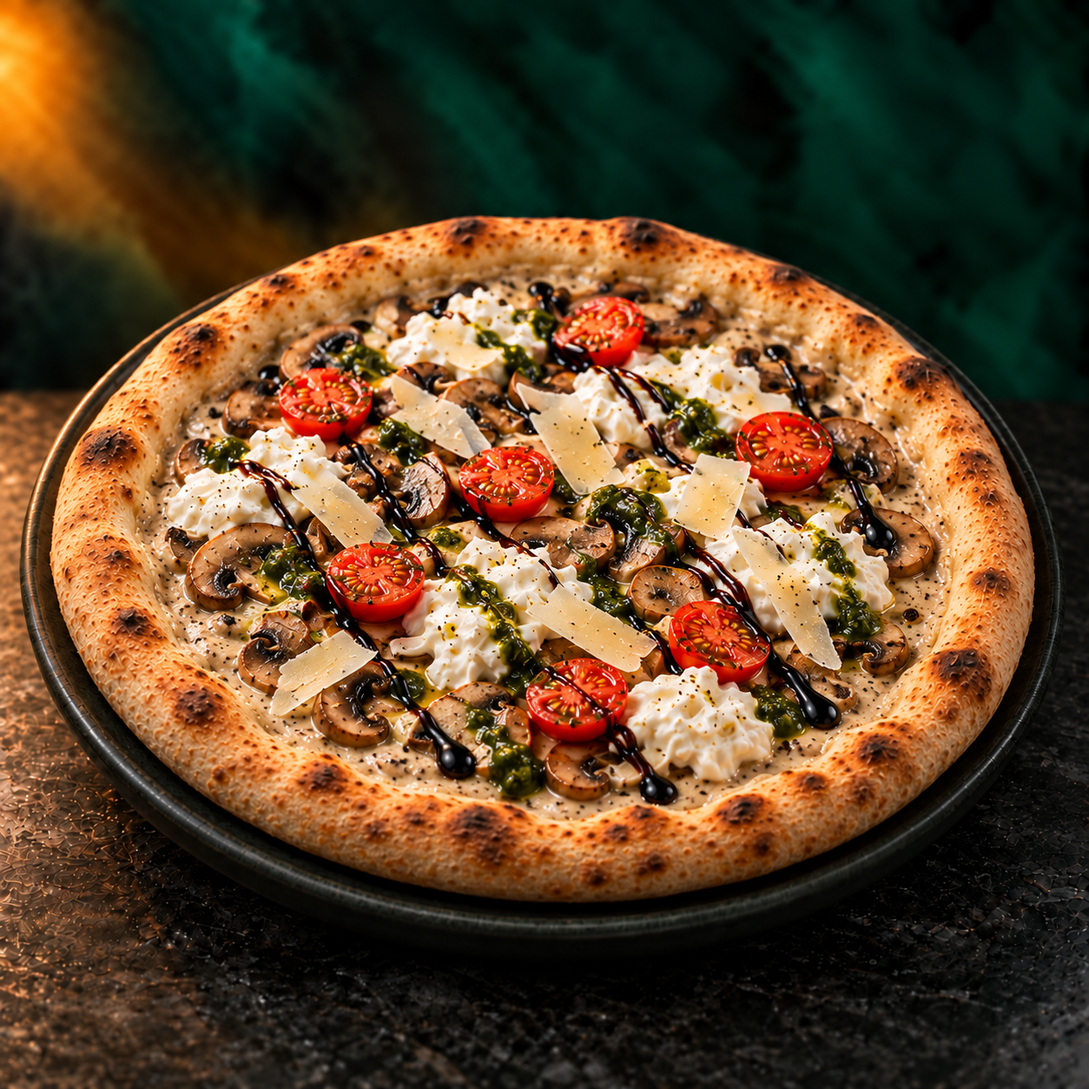
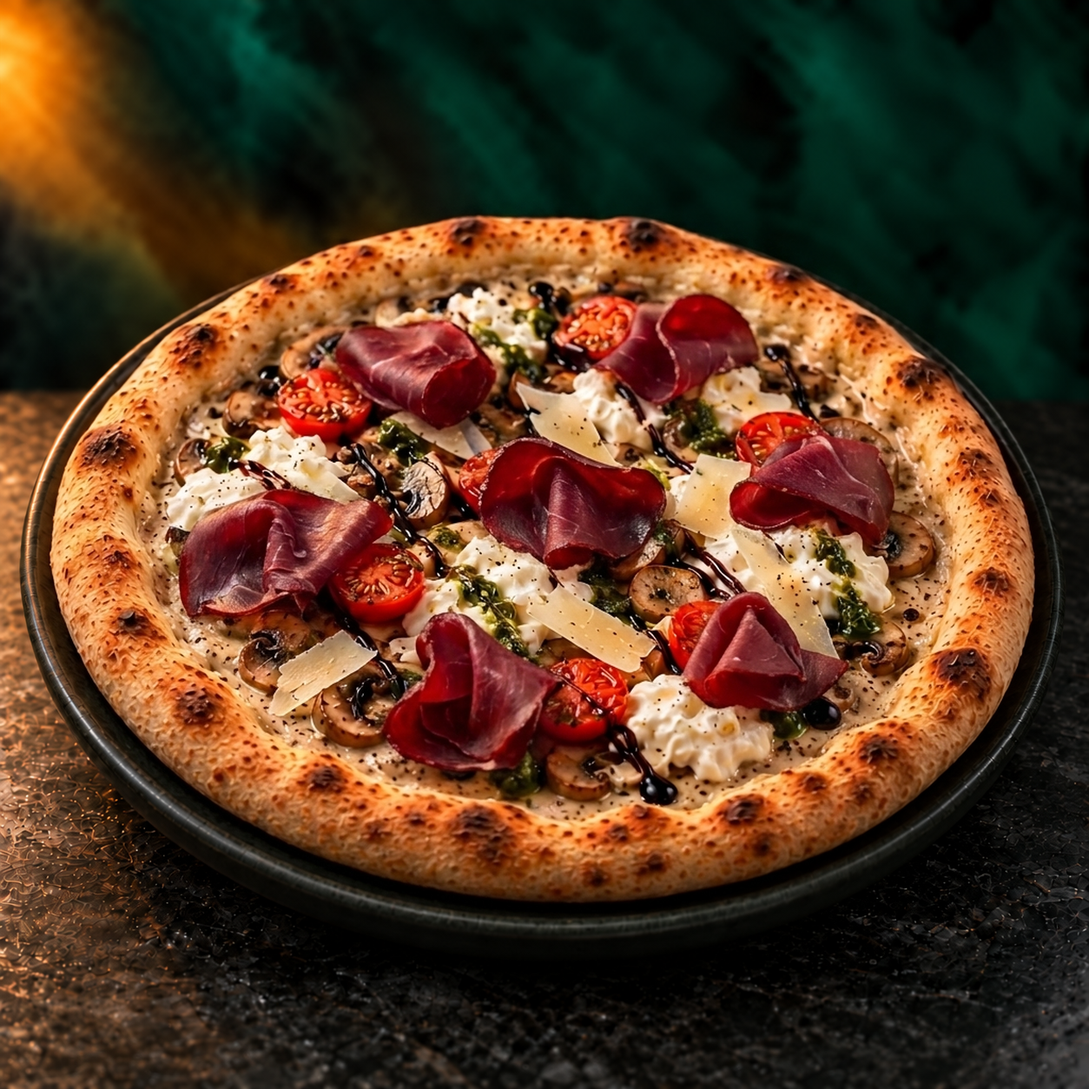
Carte : nouvelles descriptions (burgers, panuozzos, pizzas fior di latte, pâtes, desserts, boissons), Spaghetti Merguez à 14 €, Tartuffe Mafia au jambon de bœuf ; « chicha » pour le référencement

Changed region(s): [[0.0311, 0.2488, 0.933, 0.8086], [0.2799, 0.2177, 0.3421, 0.2488]]

diff --git a/tests/site.spec.ts b/tests/site.spec.ts
@@ -21,47 +21,47 @@ test('la nouvelle carte affiche les treize catégories dans le bon ordre', async
 
 // Each dish shows its ingredients as a customer reads them, never the recipe steps.
 const dishes: { id: string; tab?: string; name: string; has: string[]; hasNot?: string[] }[] = [
-  { id: 'burger-bbq-raclette', name: 'BBQ’ Raclette', has: ['poulet frit croustillant', 'raclette fondue', 'sauce BBQ'] },
-  { id: 'burger-chicken-biggie', name: 'Chicken Biggie', has: ['poulet frit croustillant', 'double cheddar fondu', 'sauce classic burger'] },
-  { id: 'burger-chicken-creamy', name: 'Chicken Creamy', has: ['poulet frit croustillant', 'double cheddar fondu', 'mayonnaise'] },
-  { id: 'burger-smokey-bacon', name: 'Smokey Bacon', has: ['poulet frit croustillant', 'bacon de bœuf snacké', 'sauce Smokey Baconnaise'] },
-  { id: 'burger-classic-smash', name: 'Classic Smash', has: ['deux steaks smash', 'double cheddar fondu', 'ketchup', 'moutarde'] },
+  { id: 'burger-bbq-raclette', name: 'BBQ’ Raclette', has: ['potato bun moelleux', 'poulet frit gourmand'] },
+  { id: 'burger-chicken-biggie', name: 'Chicken Biggie', has: ['sauce classic burger'] },
+  { id: 'burger-chicken-creamy', name: 'Chicken Creamy', has: ['mayonnaise'] },
+  { id: 'burger-smokey-bacon', name: 'Smokey Bacon', has: ['bacon de bœuf snacké', 'sauce Smokey Baconnaise'] },
+  { id: 'burger-classic-smash', name: 'Classic Smash', has: ['deux steaks smash', 'ketchup', 'moutarde'] },
   { id: 'burger-smokey-beef-bacon', name: 'Smokey Beef Bacon', has: ['deux steaks smash', 'bacon de bœuf snacké', 'sauce Smoked Beef'] },
-  { id: 'burger-original-smash', name: 'Original Smash', has: ['deux steaks smash', 'double cheddar fondu', 'sauce Original Smash'], hasNot: ['bacon'] },
-  { id: 'burger-biggie-smash', name: 'Biggie Smash', has: ['deux steaks smash', 'double cheddar fondu', 'sauce classic burger'] },
+  { id: 'burger-original-smash', name: 'Original Smash', has: ['deux steaks smash', 'sauce Original Smash'] },
+  { id: 'burger-biggie-smash', name: 'Biggie Smash', has: ['deux steaks smash', 'sauce classic burger'] },
   { id: 'panuozzo-rosso', tab: 'panuozzo', name: 'Rosso', has: ['pain en pâte à pizza', 'crème de poivrons', 'roquette', 'jambon de dinde', 'chorizo finement tranché', 'stracciatella', 'poivrons', 'oignons confits', 'huile piquante'] },
   { id: 'panuozzo-tartufo', tab: 'panuozzo', name: 'Tartufo', has: ['pain en pâte à pizza', 'crème de truffe', 'roquette', 'jambon de dinde', 'jambon de bœuf', 'stracciatella', 'champignons poêlés', 'copeaux de parmesan', 'poivre moulu'] },
-  { id: 'panuozzo-verde', tab: 'panuozzo', name: 'Verde', has: ['pain en pâte à pizza', 'pesto basilic', 'roquette', 'jambon de dinde', 'stracciatella', 'tomates cerises confites', 'copeaux de parmesan', 'crème balsamique'] },
-  { id: 'pates-spaghetti-sicilienne', tab: 'pates', name: 'Spaghetti Sicilienne', has: ['sauce tomate', 'thon', 'olives', 'parmesan'], hasNot: ['tomate cerise'] },
-  { id: 'pates-rigatoni-tartufo', tab: 'pates', name: 'Rigatoni Tartufo', has: ['truffe', 'champignons', 'copeaux de parmesan'], hasNot: ['tomate cerise'] },
-  { id: 'pates-spaghetti-merguez', tab: 'pates', name: 'Spaghetti Merguez', has: ['merguez', 'sauce tomate crémeuse', 'olives', 'parmesan'], hasNot: ['tomate cerise'] },
+  { id: 'panuozzo-verde', tab: 'panuozzo', name: 'Verde', has: ['pain en pâte à pizza', 'roquette', 'jambon de dinde', 'stracciatella', 'tomates cerises confites', 'copeaux de parmesan'] },
+  { id: 'pates-spaghetti-sicilienne', tab: 'pates', name: 'Spaghetti Sicilienne', has: ['sauce tomate', 'thon', 'olives'], hasNot: ['tomate cerise'] },
+  { id: 'pates-rigatoni-tartufo', tab: 'pates', name: 'Rigatoni Tartufo', has: ['truffe', 'champignons'], hasNot: ['tomate cerise'] },
+  { id: 'pates-spaghetti-merguez', tab: 'pates', name: 'Spaghetti Merguez', has: ['merguez', 'olives'], hasNot: ['tomate cerise'] },
   { id: 'pates-spaghetti-formaggi', tab: 'pates', name: 'Spaghetti Formaggi', has: ['gorgonzola', 'copeaux de parmesan'], hasNot: ['tomate cerise'] },
-  { id: 'pates-penne-arrabiata', tab: 'pates', name: 'Penne Arrabbiata', has: ['sauce tomate relevée à l’huile piquante'], hasNot: ['parmesan'] },
-  { id: 'pates-penne-forestiere', tab: 'pates', name: 'Penne Forestière', has: ['poulet', 'champignons', 'sauce crémeuse au parmesan'], hasNot: ['tomate cerise'] },
-  { id: 'pates-penne-saumon', tab: 'pates', name: 'Penne Saumon', has: ['saumon', 'sauce tomate crémeuse au parmesan'], hasNot: ['tomate cerise'] },
-  { id: 'pates-rigatoni-carbonara', tab: 'pates', name: 'Rigatoni Carbonara', has: ['crème', 'jaune d’œuf', 'lardons', 'parmesan', 'poivre noir'], hasNot: ['tomate cerise'] },
-  { id: 'pizzas-bollywood-style', tab: 'pizzas', name: 'Bollywood Style', has: ['sauce curry', 'mozzarella', 'poulet', 'oignons confits', 'tomates cerises', 'sauce basilic', 'crème balsamique'] },
-  { id: 'pizzas-burratella-lov', tab: 'pizzas', name: 'Burratella Lov’', has: ['sauce tomate', 'stracciatella', 'jambon de dinde', 'copeaux de parmesan', 'sauce basilic', 'crème balsamique'] },
+  { id: 'pates-penne-arrabiata', tab: 'pates', name: 'Penne Arrabbiata', has: ['penne à la sauce tomate relevée au piment', 'à l’huile d’olive'], hasNot: ['parmesan'] },
+  { id: 'pates-penne-forestiere', tab: 'pates', name: 'Penne Forestière', has: ['poulet', 'champignons'], hasNot: ['tomate cerise'] },
+  { id: 'pates-penne-saumon', tab: 'pates', name: 'Penne Saumon', has: ['saumon'], hasNot: ['tomate cerise'] },
+  { id: 'pates-rigatoni-carbonara', tab: 'pates', name: 'Rigatoni Carbonara', has: ['jaune d’œuf', 'lardons', 'parmesan', 'poivre noir'], hasNot: ['tomate cerise'] },
+  { id: 'pizzas-bollywood-style', tab: 'pizzas', name: 'Bollywood Style', has: ['mozzarella', 'poulet', 'oignons confits', 'tomates cerises'] },
+  { id: 'pizzas-burratella-lov', tab: 'pizzas', name: 'Burratella Lov’', has: ['sauce tomate', 'stracciatella', 'jambon de dinde', 'copeaux de parmesan'] },
   { id: 'pizzas-classica-queen', tab: 'pizzas', name: 'Classica Queen', has: ['sauce tomate', 'mozzarella', 'champignons', 'jambon'] },
-  { id: 'pizzas-malaga', tab: 'pizzas', name: 'Malaga', has: ['merguez', 'œuf', 'jambon de dinde', 'sauce basilic'] },
-  { id: 'pizzas-marmithon', tab: 'pizzas', name: 'Marmithon', has: ['thon', 'olives', 'oignons confits', 'sauce basilic'] },
+  { id: 'pizzas-malaga', tab: 'pizzas', name: 'Malaga', has: ['merguez', 'œuf', 'jambon de dinde'] },
+  { id: 'pizzas-marmithon', tab: 'pizzas', name: 'Marmithon', has: ['thon', 'olives', 'oignons confits'] },
   { id: 'pizzas-paysanne', tab: 'pizzas', name: 'Paysanne', has: ['base crème', 'lardons', 'pommes de terre', 'sauce persillade'], hasNot: ['sauce tomate'] },
   { id: 'pizzas-pizz-arabia', tab: 'pizzas', name: 'Pizz’Arabia', has: ['merguez', 'poivrons rouges et verts', 'œuf', 'oignons confits'], hasNot: ['sauce basilic'] },
   { id: 'pizzas-ranch', tab: 'pizzas', name: 'Ranch’', has: ['sauce barbecue', 'poivrons rouges et verts', 'poulet', 'chorizo', 'crème', 'oignons confits', 'cheddar'], hasNot: ['sauce tomate'] },
   { id: 'pizzas-rosalia', tab: 'pizzas', name: 'Rosalia', has: ['sauce tomate', 'mozzarella', 'champignons', 'poulet', 'merguez artisanale', 'crème'], hasNot: ['oignons confits', 'sauce basilic'] },
   { id: 'pizzas-sugar-pepperoni', tab: 'pizzas', name: 'Sugar Pepperoni', has: ['sauce tomate à la barbecue', 'mozzarella', 'pepperoni'], hasNot: ['oignons', 'sauce basilic'] },
-  { id: 'pizzas-tartuffe-mafia', tab: 'pizzas', name: 'Tartuffe Mafia', has: ['crème truffée', 'champignons', 'stracciatella', 'tomates cerises', 'copeaux de parmesan', 'sauce basilic', 'crème balsamique'], hasNot: ['mozzarella', 'sauce tomate'] },
+  { id: 'pizzas-tartuffe-mafia', tab: 'pizzas', name: 'Tartuffe Mafia', has: ['crème truffée', 'champignons', 'stracciatella', 'tomates cerises', 'copeaux de parmesan'], hasNot: ['mozzarella', 'sauce tomate'] },
   { id: 'pizzas-tutti-formaggi', tab: 'pizzas', name: 'Tutti Formaggi', has: ['sauce tomate', 'mozzarella', 'chèvre', 'gorgonzola', 'copeaux de parmesan'], hasNot: ['viande', 'champignons'] },
   { id: 'pizzas-vieille-fermiere', tab: 'pizzas', name: 'Vieille Fermière', has: ['base crème', 'mozzarella', 'poulet', 'champignons', 'oignons confits'], hasNot: ['sauce tomate'] },
   { id: 'pizzas-western', tab: 'pizzas', name: 'Western', has: ['sauce moutarde', 'mozzarella', 'poulet rôti', 'crème', 'oignons confits', 'sauce persillade'], hasNot: ['sauce tomate'] },
-  { id: 'frappuccino-caramello', tab: 'frappuccino', name: 'Caramello', has: ['Espresso Caramello', 'lait entier', 'sirop vanille', 'glace vanille', 'glaçons', 'chantilly', 'coulis caramel'] },
-  { id: 'frappuccino-coffee-latte', tab: 'frappuccino', name: 'Coffee Latte', has: ['Espresso Forte', 'lait entier', 'sirop de sucre', 'glace vanille', 'glaçons', 'chantilly'], hasNot: ['caramel'] },
-  { id: 'frappuccino-nocciola', tab: 'frappuccino', name: 'Nocciola', has: ['Café Nocciola', 'lait entier', 'coulis chocolat', 'glace vanille', 'glaçons', 'chantilly', 'filet de chocolat'], hasNot: ['caramel'] },
+  { id: 'frappuccino-caramello', tab: 'frappuccino', name: 'Caramello', has: ['glace vanille', 'glaçons', 'chantilly'] },
+  { id: 'frappuccino-coffee-latte', tab: 'frappuccino', name: 'Coffee Latte', has: ['glace vanille', 'glaçons', 'chantilly'], hasNot: ['caramel'] },
+  { id: 'frappuccino-nocciola', tab: 'frappuccino', name: 'Nocciola', has: ['glace vanille', 'glaçons', 'chantilly', 'filet de chocolat'], hasNot: ['caramel'] },
   { id: 'mocktail-amor-amor', tab: 'mocktail', name: 'Amor Amor', has: ['jus de passion', 'jus d’ananas', 'jus de mangue', 'sirop de vanille', 'grenadine', 'glace pilée'] },
   { id: 'mocktail-coco-loco', tab: 'mocktail', name: 'Coco Loco', has: ['jus de piña colada', 'lait de coco', 'jus d’ananas', 'sirop de vanille', 'glace pilée'] },
-  { id: 'mocktail-virgin-mojito', tab: 'mocktail', name: 'Virgin Mojito', has: ['menthe fraîche', 'citron vert', 'sirop de sucre de canne', 'Sprite', 'glace pilée'], hasNot: ['fraise', 'framboise'] },
-  { id: 'mocktail-mojito-framboise', tab: 'mocktail', name: 'Mojito Framboise', has: ['menthe fraîche', 'citron vert', 'sirop de framboise', 'Sprite', 'glace pilée'] },
-  { id: 'mocktail-mojito-fraise', tab: 'mocktail', name: 'Mojito Fraise', has: ['menthe fraîche', 'citron vert', 'sirop de fraise', 'Sprite', 'glace pilée'], hasNot: ['framboise'] },
+  { id: 'mocktail-virgin-mojito', tab: 'mocktail', name: 'Virgin Mojito', has: ['menthe fraîche', 'citron vert', 'sirop de sucre de canne', 'glace pilée'], hasNot: ['fraise', 'framboise'] },
+  { id: 'mocktail-mojito-framboise', tab: 'mocktail', name: 'Mojito Framboise', has: ['menthe fraîche', 'citron vert', 'sirop de framboise', 'glace pilée'] },
+  { id: 'mocktail-mojito-fraise', tab: 'mocktail', name: 'Mojito Fraise', has: ['menthe fraîche', 'citron vert', 'sirop de fraise', 'glace pilée'], hasNot: ['framboise'] },
   { id: 'mocktail-passion-fruit-lemonade', tab: 'mocktail', name: 'Passion Fruit Lemonade', has: ['jus de passion', 'jus de citron jaune', 'sirop de sucre de canne', 'eau pétillante', 'glace pilée'] },
   { id: 'boisson-coca-cola', tab: 'boissons-fraiches', name: 'Coca-Cola', has: ['bouteille en verre', '33 cl'] },
   { id: 'boisson-coca-cola-zero', tab: 'boissons-fraiches', name: 'Coca-Cola Zéro', has: ['Zéro Sucres', 'bouteille en verre', '33 cl'] },
@@ -72,23 +72,23 @@ const dishes: { id: string; tab?: string; name: string; has: string[]; hasNot?: 
   { id: 'boisson-orangina', tab: 'boissons-fraiches', name: 'Orangina', has: ['pulpe', 'bouteille en verre', '25 cl'] },
   { id: 'boisson-san-pellegrino', tab: 'boissons-fraiches', name: 'San Pellegrino', has: ['gazeuse', 'bouteille en verre', '50 cl'] },
   { id: 'boisson-vittel', tab: 'boissons-fraiches', name: 'Vittel', has: ['eau minérale', 'bouteille en verre', '50 cl'] },
-  { id: 'milkshake-bueno', tab: 'milkshake', name: 'Bueno', has: ['glace vanille', 'lait', 'Kinder Bueno mixé', 'chantilly', 'demi-barre de Bueno'], hasNot: ['coulis'] },
-  { id: 'milkshake-cookies', tab: 'milkshake', name: 'Cookies', has: ['glace vanille', 'lait', 'cookies aux pépites de chocolat mixés', 'chantilly', 'demi-cookie'], hasNot: ['coulis'] },
-  { id: 'milkshake-oreo', tab: 'milkshake', name: 'Oreo', has: ['glace vanille', 'lait', 'biscuits Oreo mixés', 'chantilly', 'un biscuit Oreo'], hasNot: ['coulis'] },
-  { id: 'milkshake-petit-beurre', tab: 'milkshake', name: 'Petit Beurre', has: ['glace vanille', 'lait', 'biscuits Petit Beurre mixés', 'chantilly', 'demi-biscuit Petit Beurre'], hasNot: ['coulis'] },
-  { id: 'milkshake-speculoos', tab: 'milkshake', name: 'Spéculoos', has: ['glace vanille', 'lait', 'biscuits Spéculoos mixés', 'chantilly', 'demi-biscuit Spéculoos'], hasNot: ['coulis'] },
-  { id: 'milkshake-vanille', tab: 'milkshake', name: 'Vanille', has: ['glace vanille', 'lait', 'chantilly'], hasNot: ['coulis', 'biscuit'] },
-  { id: 'iced-latte-caramello', tab: 'iced-latte', name: 'Iced Caramello', has: ['sirop de vanille', 'café Caramello', 'lait entier', 'glaçons', 'chantilly', 'coulis caramel'] },
-  { id: 'iced-latte-coffee-latte', tab: 'iced-latte', name: 'Iced Coffee Latte', has: ['sirop de sucre', 'Espresso Forte', 'lait entier', 'glaçons', 'chantilly'], hasNot: ['caramel', 'cacao'] },
-  { id: 'iced-latte-nocciola', tab: 'iced-latte', name: 'Iced Nocciola', has: ['coulis chocolat', 'café Nocciola', 'lait entier', 'glaçons', 'chantilly'], hasNot: ['caramel', 'vanille'] },
+  { id: 'milkshake-bueno', tab: 'milkshake', name: 'Bueno', has: ['chantilly'], hasNot: ['coulis'] },
+  { id: 'milkshake-cookies', tab: 'milkshake', name: 'Cookies', has: ['chantilly'], hasNot: ['coulis'] },
+  { id: 'milkshake-oreo', tab: 'milkshake', name: 'Oreo', has: ['chantilly'], hasNot: ['coulis'] },
+  { id: 'milkshake-petit-beurre', tab: 'milkshake', name: 'Petit Beurre', has: ['chantilly'], hasNot: ['coulis'] },
+  { id: 'milkshake-speculoos', tab: 'milkshake', name: 'Spéculoos', has: ['chantilly'], hasNot: ['coulis'] },
+  { id: 'milkshake-vanille', tab: 'milkshake', name: 'Vanille', has: ['glace vanille', 'chantilly'], hasNot: ['coulis', 'biscuit'] },
+  { id: 'iced-latte-caramello', tab: 'iced-latte', name: 'Iced Caramello', has: ['glaçons', 'chantilly'] },
+  { id: 'iced-latte-coffee-latte', tab: 'iced-latte', name: 'Iced Coffee Latte', has: ['glaçons', 'chantilly'], hasNot: ['caramel', 'cacao'] },
+  { id: 'iced-latte-nocciola', tab: 'iced-latte', name: 'Iced Nocciola', has: ['glaçons', 'chantilly'], hasNot: ['caramel', 'vanille'] },
   { id: 'salade-original-burrata', tab: 'salade', name: 'Original Burrata', has: ['burrata', 'huile d’olive', 'tomates cerises', 'olives de Ligurie', 'sauce basilic', 'crème balsamique'], hasNot: ['poulet'] },
   { id: 'salade-cesar', tab: 'salade', name: 'César', has: ['salade', 'poulet', 'croûtons', 'sauce César'], hasNot: ['burrata', 'tomate'] },
-  { id: 'dessert-fondant-chocolat', tab: 'dessert', name: 'Fondant au chocolat', has: ['mi-cuit au chocolat', 'glace vanille +2 €'] },
+  { id: 'dessert-fondant-chocolat', tab: 'dessert', name: 'Fondant au chocolat', has: ['glace vanille +2 €'] },
   { id: 'dessert-tiramisu-coffee', tab: 'dessert', name: 'Original Tiramisu Coffee', has: ['mascarpone', 'café', 'cacao'] },
   { id: 'dessert-tiramisu-nutella-speculoos', tab: 'dessert', name: 'Tiramisu Nutella-Spéculoos', has: ['mascarpone', 'Nutella', 'spéculoos'] },
   { id: 'dessert-tiramisu-pistachio', tab: 'dessert', name: 'Tiramisu Pistachio', has: ['mascarpone', 'pistache'] },
   { id: 'dessert-bowl-fruits', tab: 'dessert', name: 'Bowl de fruits', has: ['fruits frais de saison'] },
-  { id: 'dessert-brioche-perdue', tab: 'dessert', name: 'Brioche perdue', has: ['pain perdu', 'topping au choix', 'caramel beurre salé'] },
+  { id: 'dessert-brioche-perdue', tab: 'dessert', name: 'Brioche perdue', has: ['pain perdu', 'topping au choix'] },
   { id: 'crepe-beurre-sucre', tab: 'crepes', name: 'Crêpe beurre sucre', has: ['beurre et sucre'] },
   { id: 'crepe-nutella', tab: 'crepes', name: 'Crêpe Nutella', has: ['Nutella'] },
   { id: 'crepe-speculoos', tab: 'crepes', name: 'Crêpe crème spéculoos', has: ['crème spéculoos'] },
@@ -139,7 +139,7 @@ test('chaque catégorie liste ses plats du moins cher au plus cher', async ({ pa
 
 test('les burgers sont servis avec des frites, les panuozzos avec une salade et les salades avec des petits pains', async ({ page }) => {
   await page.goto('/#carte');
-  await expect(page.locator('.dish-card[data-open="burger-classic-smash"] .dish-served')).toHaveText('Servi avec des frites');
+  await expect(page.locator('.dish-card[data-open="burger-classic-smash"] .dish-served')).toHaveText('Servi avec frites');
   await expect(page.locator('.dish-card[data-open^="burger-"] .dish-served')).toHaveCount(8);
   await page.locator('#tab-panuozzo').click();
   await expect(page.locator('.dish-card[data-open^="panuozzo-"] .dish-served')).toHaveCount(3);
@@ -147,7 +147,7 @@ test('les burgers sont servis avec des frites, les panuozzos avec une salade et 
   await expect(page.locator('.dish-card[data-open^="salade-"] .dish-served')).toHaveText(['Servi avec nos petits pains maison', 'Servi avec nos petits pains maison']);
   await page.locator('#tab-panuozzo').click();
   await page.locator('.dish-card[data-open="panuozzo-verde"]').click();
-  await expect(page.getByRole('dialog').locator('.dialog-served')).toHaveText('Servi avec une salade');
+  await expect(page.getByRole('dialog').locator('.dialog-served')).toHaveText('Servi avec salade');
 });
 
 test('les prix de Bilal et les suppléments des smash burgers s’affichent', async ({ page }) => {
@@ -207,7 +207,7 @@ test('les desserts regroupent les six douceurs de la carte, sans les crêpes, av
   const prices: [string, string][] = [['dessert-fondant-chocolat', '7€'], ['dessert-tiramisu-coffee', '8€'], ['dessert-tiramisu-nutella-speculoos', '9€'], ['dessert-tiramisu-pistachio', '9€'], ['dessert-bowl-fruits', '10€'], ['dessert-brioche-perdue', '11€']];
   for (const [id, price] of prices) await expect(page.locator(`.dish-card[data-open="${id}"] .dish-title > span`)).toHaveText(price);
   await expect(page.locator('.dish-card[data-open="dessert-fondant-chocolat"]')).toContainText('Boule de glace vanille +2 €');
-  await expect(page.locator('.dish-card[data-open="dessert-brioche-perdue"]')).toContainText('Nutella, spéculoos, crème Bueno ou caramel beurre salé');
+  await expect(page.locator('.dish-card[data-open="dessert-brioche-perdue"]')).toContainText('Nutella, spéculoos, crème Bueno ou caramel au beurre salé');
   await expect(page.locator('.dish-card[data-open="dessert-brioche-perdue"]')).toContainText('Topping supplémentaire +2 €');
   await expect(page.locator('#dish-grid')).not.toContainText('BIENTÔT');
 });
@@ -261,13 +261,13 @@ test('la page expose un référencement local complet', async ({ page }) => {
   expect(missingAlt).toBe(0);
 });
 
-test('le lounge présente ses hookahs et la chauffe Quasar', async ({ page }) => {
+test('le lounge présente ses chichas et la chauffe Quasar', async ({ page }) => {
   await page.goto('/');
   await expect(page.locator('#lieu')).toHaveCount(0);
   await expect(page.locator('a[href="#lieu"]')).toHaveCount(0);
   const lounge = page.locator('#lounge');
   await expect(lounge.locator('.lounge-specs')).toContainText('Alpha, Brodator, Mig tradi');
-  expect((await page.locator('body').innerText()).match(/chicha|wookah/i)).toBeNull();
+  expect((await page.locator('body').innerText()).match(/hookah|wookah/i)).toBeNull();
   await expect(lounge.locator('.lounge-specs')).toContainText('Quasar');
   await expect(lounge.locator('.lounge-picture img')).toHaveAttribute('src', /lounge\/wookah-quasar\.webp$/);
   await expect(lounge.locator('.lounge-tile img')).toHaveCount(2);
@@ -276,11 +276,11 @@ test('le lounge présente ses hookahs et la chauffe Quasar', async ({ page }) =>
   await expect(lounge.locator('.lounge-intro')).toContainText('dès 15 h');
   await expect(lounge.locator('.lounge-intro')).not.toContainText('assiette');
   await expect(lounge.locator('.lounge-formula').nth(0)).toContainText('FORMULE 1');
-  await expect(lounge.locator('.lounge-formula').nth(0)).toContainText('Hookah & Drink');
+  await expect(lounge.locator('.lounge-formula').nth(0)).toContainText('Chicha & Drink');
   await expect(lounge.locator('.lounge-formula').nth(1)).toContainText('FORMULE 2');
-  await expect(lounge.locator('.lounge-formula').nth(0)).toContainText('Hookah + boisson fraîche ou boisson chaude');
-  await expect(lounge.locator('.lounge-formula').nth(1)).toContainText('Hookah & Signature Drink');
-  await expect(lounge.locator('.lounge-formula').nth(1)).toContainText('Hookah + mocktail, milkshake, iced latte ou frappuccino');
+  await expect(lounge.locator('.lounge-formula').nth(0)).toContainText('Chicha + boisson fraîche ou boisson chaude');
+  await expect(lounge.locator('.lounge-formula').nth(1)).toContainText('Chicha & Signature Drink');
+  await expect(lounge.locator('.lounge-formula').nth(1)).toContainText('Chicha + mocktail, milkshake, iced latte ou frappuccino');
 });
 
 test('les infos pratiques donnent adresse, horaires, téléphone et état d’ouverture', async ({ page }) => {
@@ -357,9 +357,9 @@ test('fermer la fiche d’un plat ne laisse pas de contour après un clic', asyn
 
 test('les titres de section portent les mots-clés et le contact affiche la bonne adresse e-mail', async ({ page }) => {
   await page.goto('/');
-  await expect(page).toHaveTitle(/hookah à Noisy-le-Sec/);
+  await expect(page).toHaveTitle(/chicha à Noisy-le-Sec/);
   await expect(page.locator('#carte h2')).toContainText('cuisine généreuse, comme à la maison, à Noisy-le-Sec');
-  await expect(page.locator('#lounge h2')).toContainText('Lounge hookah à Noisy-le-Sec');
+  await expect(page.locator('#lounge h2')).toContainText('Lounge chicha à Noisy-le-Sec');
   await expect(page.locator('#contact h2')).toContainText('Adresse, horaires & accès');
   await expect(page.locator('section[hidden]')).toHaveCount(0);
   await expect(page.locator('a[href^="mailto:"]').first()).toHaveAttribute('href', 'mailto:lesafelounge@gmail.com');

diff --git a/index.html b/index.html
@@ -3,8 +3,8 @@
 <head>
   <meta charset="UTF-8" />
   <meta name="viewport" content="width=device-width, initial-scale=1.0" />
-  <title>Le Safe Lounge · Restaurant &amp; lounge hookah à Noisy-le-Sec</title>
-  <meta name="description" content="Restaurant et lounge hookah à Noisy-le-Sec (93) : smash burgers, chicken burgers, pizzas et pâtes. 82 boulevard Michelet, ouvert 7 j/7 dès 15 h, jusqu’à 2 h le week-end." />
+  <title>Le Safe Lounge · Restaurant &amp; lounge chicha à Noisy-le-Sec</title>
+  <meta name="description" content="Restaurant et lounge chicha à Noisy-le-Sec (93) : smash burgers, chicken burgers, pizzas et pâtes. 82 boulevard Michelet, ouvert 7 j/7 dès 15 h, jusqu’à 2 h le week-end." />
   <link rel="canonical" href="%SITE_URL%" />
   <meta name="robots" content="index, follow, max-image-preview:large" />
   <meta name="theme-color" content="#224233" />
@@ -14,7 +14,7 @@
   <meta property="og:locale" content="fr_FR" />
   <meta property="og:site_name" content="Le Safe Lounge" />
   <meta property="og:title" content="Le Safe Lounge · Restaurant &amp; lounge à Noisy-le-Sec" />
-  <meta property="og:description" content="Smash burgers, pizzas, pâtes et lounge hookah au 82 boulevard Michelet, à Noisy-le-Sec. Ouvert tous les jours dès 15 h." />
+  <meta property="og:description" content="Smash burgers, pizzas, pâtes et lounge chicha au 82 boulevard Michelet, à Noisy-le-Sec. Ouvert tous les jours dès 15 h." />
   <meta property="og:url" content="%SITE_URL%" />
   <meta property="og:image" content="%SITE_URL%assets/og-image.jpg" />
   <meta property="og:image:width" content="1200" />
@@ -22,7 +22,7 @@
   <meta property="og:image:alt" content="Le Smokey Beef Bacon, la Burratella Lov’ et les Penne Forestière du Safe Lounge" />
   <meta name="twitter:card" content="summary_large_image" />
   <meta name="twitter:title" content="Le Safe Lounge · Restaurant &amp; lounge à Noisy-le-Sec" />
-  <meta name="twitter:description" content="Smash burgers, pizzas, pâtes et lounge hookah au 82 boulevard Michelet, à Noisy-le-Sec." />
+  <meta name="twitter:description" content="Smash burgers, pizzas, pâtes et lounge chicha au 82 boulevard Michelet, à Noisy-le-Sec." />
   <meta name="twitter:image" content="%SITE_URL%assets/og-image.jpg" />
   <link rel="icon" href="/assets/symbol-lilac.svg" type="image/svg+xml" />
   <link rel="apple-touch-icon" href="/assets/apple-touch-icon.webp" />
@@ -57,7 +57,7 @@
       <div class="menu-heading reveal"><div><h2><span class="eyebrow h2-kicker">La carte · cuisine généreuse, comme à la maison, à <span class="nowrap">Noisy-le-Sec</span></span> Et vous,<br><em>vous prenez quoi ?</em></h2></div><div class="menu-search"><label for="dish-search">Une envie précise ?</label><div><svg viewBox="0 0 24 24" fill="none" stroke="currentColor" stroke-width="1.5" aria-hidden="true"><circle cx="10" cy="10" r="6"/><path d="m15 15 6 6"/></svg><input id="dish-search" type="search" placeholder="Burger, pizza, mocktail…" autocomplete="off" /><button class="clear-search" type="button" aria-label="Effacer la recherche" hidden>×</button></div></div></div>
       <div class="menu-layout"><aside class="menu-sidebar"><div class="sidebar-top"><span>LA CARTE</span></div><div id="categories" role="tablist" aria-label="Catégories du menu" aria-orientation="vertical"></div><div class="sidebar-note"><img src="/assets/symbol-lilac.svg" alt="" width="35" height="35" /><p>Le goût des bonnes choses. <br>Tout simplement.</p></div></aside><div class="menu-results"><div class="results-heading"><div><h3 id="category-title">Burgers</h3><p id="category-description"></p></div><span id="result-count" aria-live="polite"></span></div><div id="menu-panel" role="tabpanel" aria-labelledby="tab-burger" tabindex="0"><div id="dish-grid" class="dish-grid"></div></div><div class="menu-service"><span>Un ingrédient, une allergie ? Notre équipe vous renseigne sur chaque recette.</span><a href="tel:+33148501547">Nous appeler ↗</a></div></div></div>
     </section>
-    <section id="lounge" class="lounge section-pad"><div class="lounge-haze" aria-hidden="true"><i></i><i></i><i></i><i></i><i></i></div><div class="lounge-copy reveal"><h2><span class="eyebrow h2-kicker">Lounge hookah à <span class="nowrap">Noisy-le-Sec</span></span> Posez-vous,<br><em>dès 15&nbsp;h.</em></h2><p class="lounge-intro">Entre amis, installez-vous dans notre espace lounge, tous les jours dès 15&nbsp;h. Un hookah préparé avec soin, un soft, un mocktail ou un milkshake : prenez le temps, on s’occupe du reste.</p><ul class="lounge-specs"><li><small>LES HOOKAHS</small>Alpha, Brodator, Mig&nbsp;tradi</li><li><small>LA CHAUFFE</small>Quasar</li></ul><div class="lounge-formulas"><div class="lounge-formula"><span><small>FORMULE 1</small>Hookah &amp; Drink<em>Hookah + boisson fraîche ou boisson chaude</em></span><strong>20<small>€</small></strong></div><div class="lounge-formula"><span><small>FORMULE 2</small>Hookah &amp; Signature Drink<em>Hookah + mocktail, milkshake, iced latte ou frappuccino</em></span><strong>25<small>€</small></strong></div></div><a class="text-link" href="#contact">Venir au lounge <span>↗</span></a><p class="adults-note">Espace hookah réservé aux adultes.</p></div><div class="lounge-visual"><figure class="lounge-picture"><img src="/assets/lounge/wookah-quasar.webp" alt="Le hookah en bois et sa chauffe Quasar, sur une table en marbre noir du lounge du Safe Lounge" width="880" height="1100" loading="lazy" /><figcaption class="lounge-badge">HOOKAH · FORMULE DÈS 20 €</figcaption></figure><div class="lounge-strip"><figure class="lounge-tile lounge-tile-detail"><img src="/assets/lounge/quasar-detail.webp" alt="La chauffe Quasar posée sur le hookah, avec son plateau en inox" width="928" height="1152" loading="lazy" /><figcaption>LA CHAUFFE QUASAR</figcaption></figure><figure class="lounge-tile lounge-tile-mocktail"><img src="/assets/lounge/wookah-mocktail.webp" alt="Le hookah servi avec un mocktail à la fraise et à la menthe" width="960" height="960" loading="lazy" /><figcaption>HOOKAH &amp; MOCKTAIL</figcaption></figure></div><span class="lounge-handwriting">Make it a Safe night.</span></div></section>
+    <section id="lounge" class="lounge section-pad"><div class="lounge-haze" aria-hidden="true"><i></i><i></i><i></i><i></i><i></i></div><div class="lounge-copy reveal"><h2><span class="eyebrow h2-kicker">Lounge chicha à <span class="nowrap">Noisy-le-Sec</span></span> Posez-vous,<br><em>dès 15&nbsp;h.</em></h2><p class="lounge-intro">Entre amis, installez-vous dans notre espace lounge, tous les jours dès 15&nbsp;h. Une chicha préparée avec soin, un soft, un mocktail ou un milkshake : prenez le temps, on s’occupe du reste.</p><ul class="lounge-specs"><li><small>LES CHICHAS</small>Alpha, Brodator, Mig&nbsp;tradi</li><li><small>LA CHAUFFE</small>Quasar</li></ul><div class="lounge-formulas"><div class="lounge-formula"><span><small>FORMULE 1</small>Chicha &amp; Drink<em>Chicha + boisson fraîche ou boisson chaude</em></span><strong>20<small>€</small></strong></div><div class="lounge-formula"><span><small>FORMULE 2</small>Chicha &amp; Signature Drink<em>Chicha + mocktail, milkshake, iced latte ou frappuccino</em></span><strong>25<small>€</small></strong></div></div><a class="text-link" href="#contact">Venir au lounge <span>↗</span></a><p class="adults-note">Espace chicha réservé aux adultes.</p></div><div class="lounge-visual"><figure class="lounge-picture"><img src="/assets/lounge/wookah-quasar.webp" alt="La chicha en bois et sa chauffe Quasar, sur une table en marbre noir du lounge du Safe Lounge" width="880" height="1100" loading="lazy" /><figcaption class="lounge-badge">CHICHA · FORMULE DÈS 20 €</figcaption></figure><div class="lounge-strip"><figure class="lounge-tile lounge-tile-detail"><img src="/assets/lounge/quasar-detail.webp" alt="La chauffe Quasar posée sur la chicha, avec son plateau en inox" width="928" height="1152" loading="lazy" /><figcaption>LA CHAUFFE QUASAR</figcaption></figure><figure class="lounge-tile lounge-tile-mocktail"><img src="/assets/lounge/wookah-mocktail.webp" alt="La chicha servie avec un mocktail à la fraise et à la menthe" width="960" height="960" loading="lazy" /><figcaption>CHICHA &amp; MOCKTAIL</figcaption></figure></div><span class="lounge-handwriting">Make it a Safe night.</span></div></section>
     <section id="contact" class="contact section-pad">
       <img class="contact-background" src="/assets/instagram/terrasse.webp" srcset="/assets/instagram/terrasse-768.webp 768w, /assets/instagram/terrasse.webp 1200w" sizes="100vw" alt="" width="1200" height="1600" loading="lazy" />
       <div class="contact-head">

diff --git a/vite.config.ts b/vite.config.ts
@@ -23,7 +23,7 @@ function structuredData(): Plugin {
         '@type': 'Restaurant',
         '@id': `${siteUrl}#restaurant`,
         name: 'Le Safe Lounge',
-        description: 'Restaurant et lounge hookah à Noisy-le-Sec : smash burgers, chicken burgers, pizzas et pâtes, formules hookah avec soft, mocktail ou milkshake.',
+        description: 'Restaurant et lounge chicha à Noisy-le-Sec : smash burgers, chicken burgers, pizzas et pâtes, formules chicha avec soft, mocktail ou milkshake.',
         url: siteUrl,
         image: [image('assets/og-image.jpg'), image('assets/instagram/salon.webp'), image('assets/instagram/terrasse.webp')],
         logo: image('assets/logo-dark.svg'),

diff --git a/README.md b/README.md
@@ -95,7 +95,7 @@ L’accueil affiche en plein cadre neuf plats de la carte, un par envie (burger,
 
 ## Lounge
 
-La section lounge présente les hookahs servis (Alpha, Brodator, Mig tradi) et leur chauffe Quasar. Les visuels montrent un hookah en bois ; les textes n’emploient ni « chicha » ni « Wookah », à la demande du client. Les trois visuels de `public/assets/lounge/` sont générés à partir des photos d’origine du lounge (`research/lounge-originals/`), en gardant le même modèle ; seuls le décor, la lumière et la fumée changent. Les formules à 20 € et 25 € sont affichées sans fiche : la nouvelle carte ne les contient pas encore.
+La section lounge présente les chichas servies (Alpha, Brodator, Mig tradi) et leur chauffe Quasar. Les visuels montrent un hookah en bois ; les textes disent « chicha » (le mot le plus recherché) et jamais « Wookah » ni « hookah ». Les trois visuels de `public/assets/lounge/` sont générés à partir des photos d’origine du lounge (`research/lounge-originals/`), en gardant le même modèle ; seuls le décor, la lumière et la fumée changent. Les formules à 20 € et 25 € sont affichées sans fiche : la nouvelle carte ne les contient pas encore.
 
 La fumée du fond est photographique : deux plaques de fumée sur fond noir, générées puis converties en calques transparents aux bords fondus (`smoke-tall.webp`, `smoke-wide.webp`). Cinq calques montent ou dérivent en boucle, décalés dans le temps pour qu’une volute soit toujours visible ; sans animation, ils restent affichés, immobiles et plus discrets.
 
@@ -113,5 +113,5 @@ Tailles de texte : sur ordinateur, plus aucun texte courant sous 11 px et les pa
 - `vite.config.ts` injecte les données Schema.org `Restaurant` : adresse, téléphone, horaires et la carte complète, construite depuis `src/menu.json`.
 - `public/robots.txt` et `public/sitemap.xml` ; `public/assets/og-image.jpg` pour les partages.
 - Les photos de la carte sont servies en WebP 1080 px (les PNG d’origine sont dans `research/menu-v2-originals/`).
-- Chaque titre de section commence par une ligne de mots-clés (« La carte · cuisine généreuse, comme à la maison, à Noisy-le-Sec », « Lounge hookah à Noisy-le-Sec », « Adresse, horaires & accès ») ; la grande phrase d’accroche reste en dessous.
+- Chaque titre de section commence par une ligne de mots-clés (« La carte · cuisine généreuse, comme à la maison, à Noisy-le-Sec », « Lounge chicha à Noisy-le-Sec », « Adresse, horaires & accès ») ; la grande phrase d’accroche reste en dessous.
 - Les données Schema.org portent les coordonnées GPS (OpenStreetMap), le lien Google Maps et l’e-mail `lesafelounge@gmail.com`.
